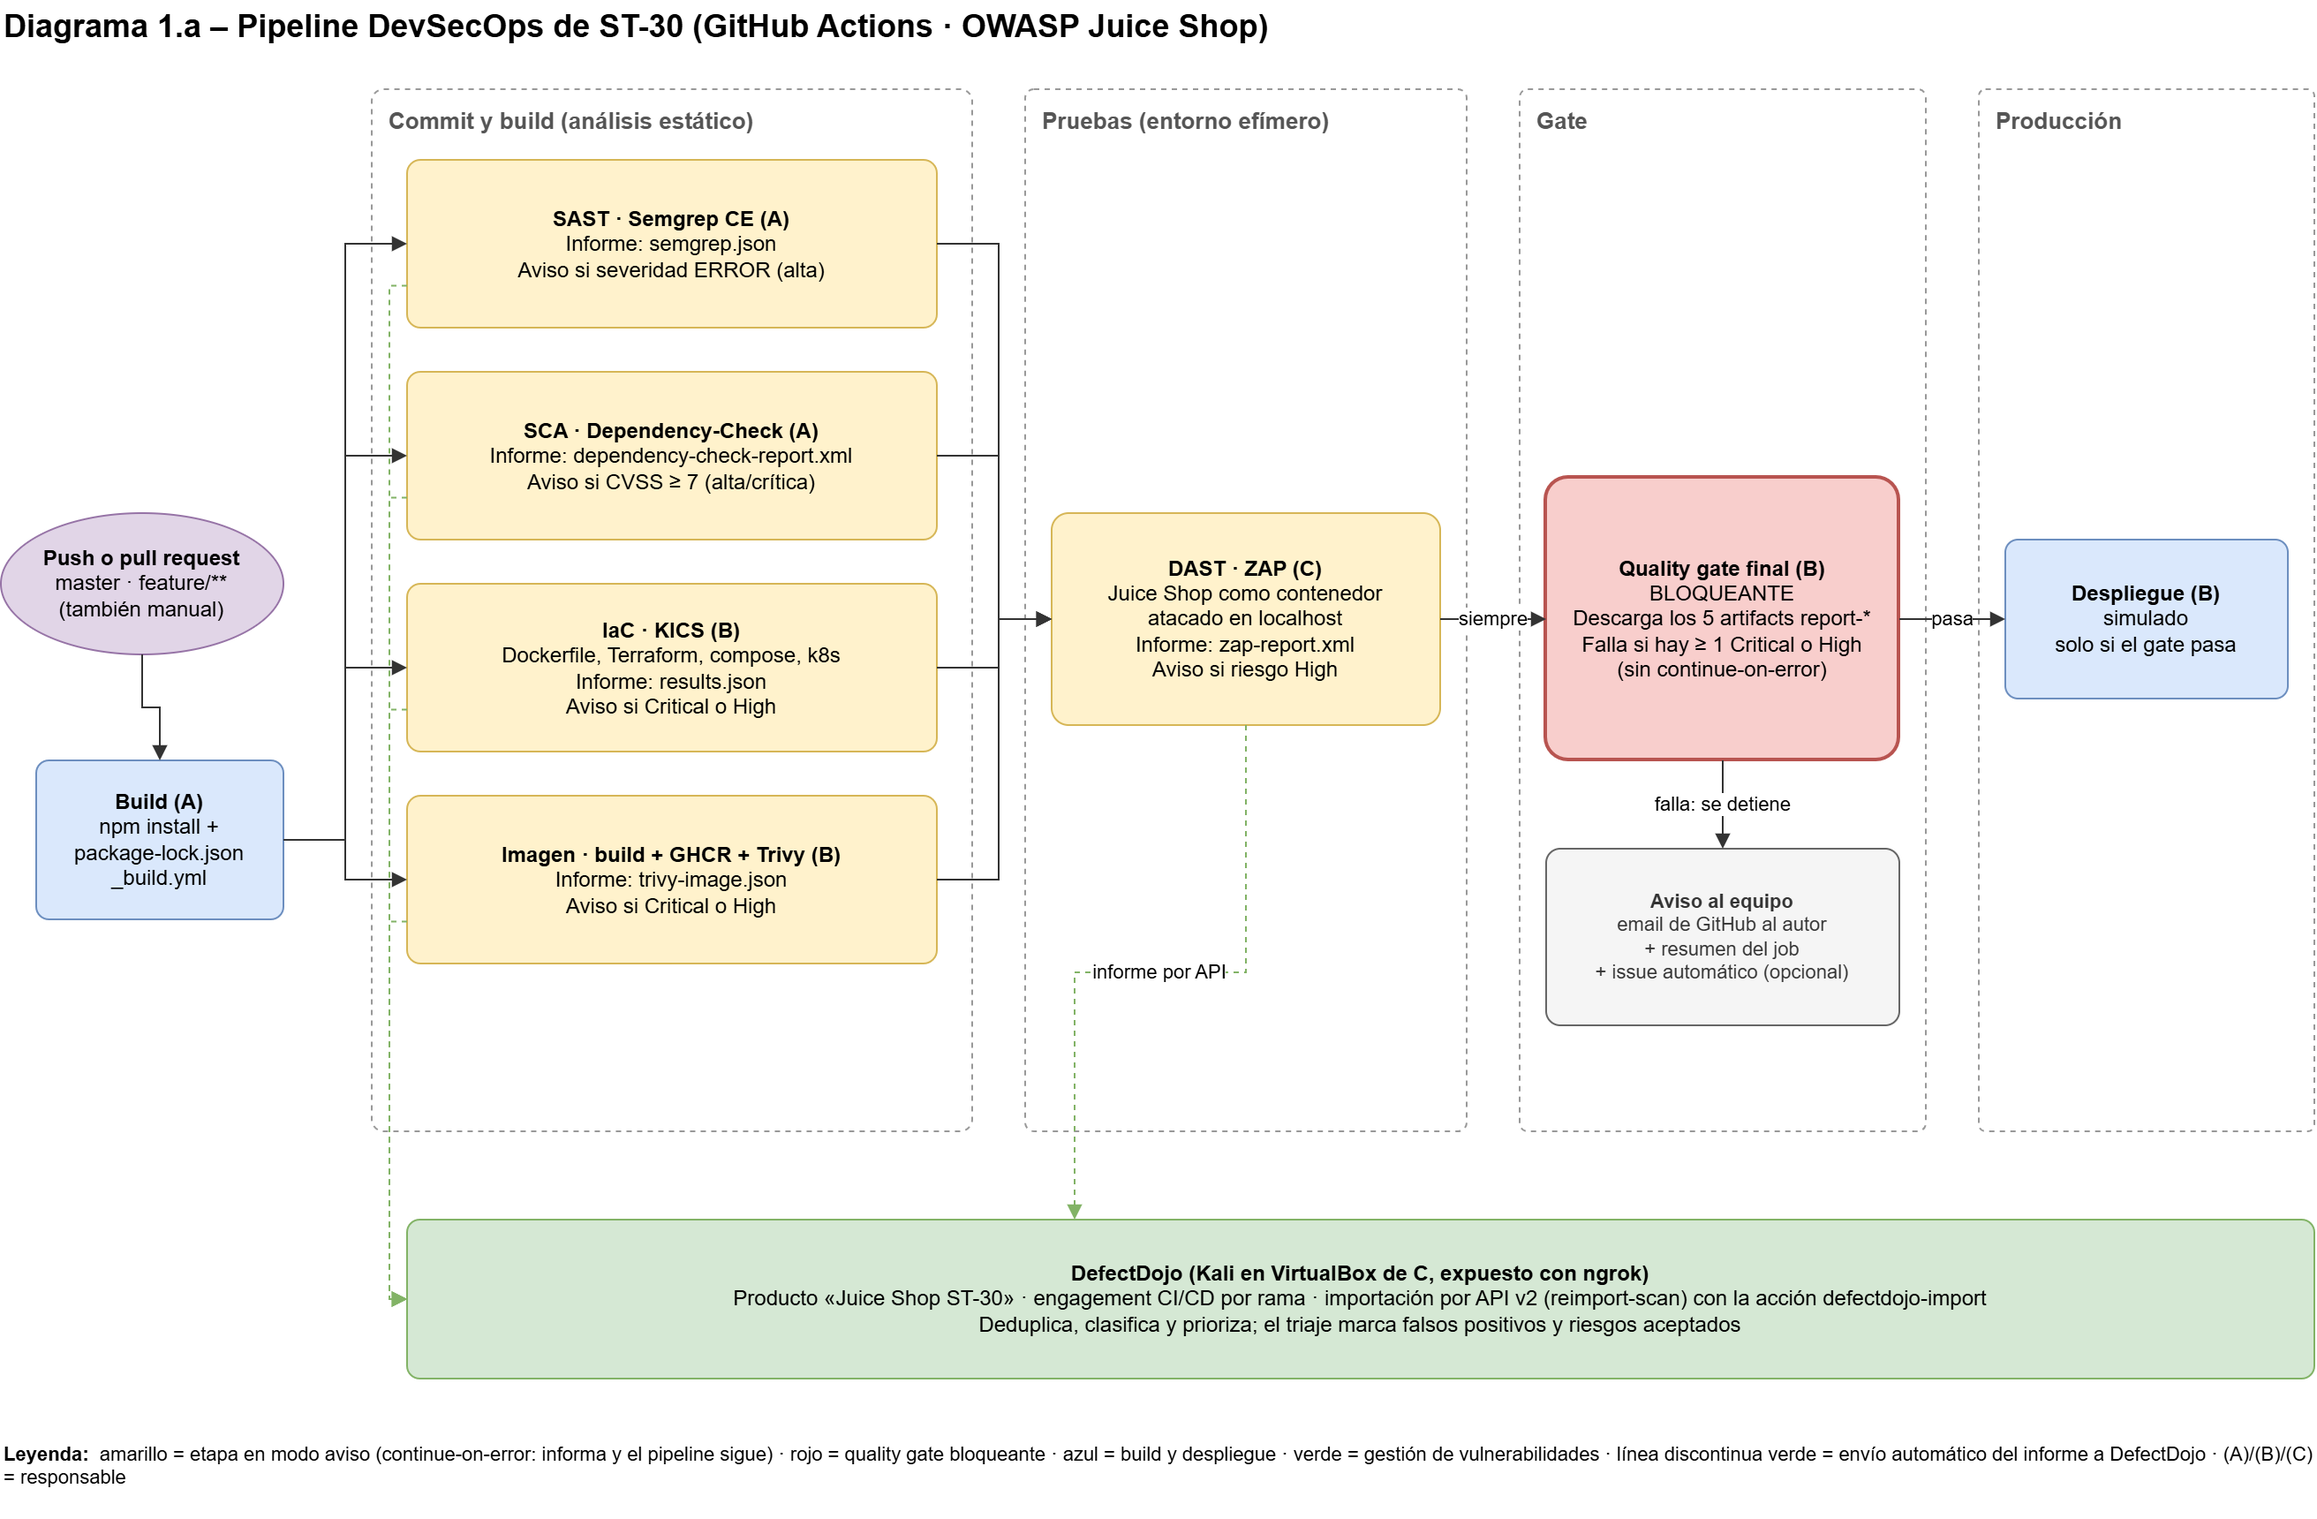
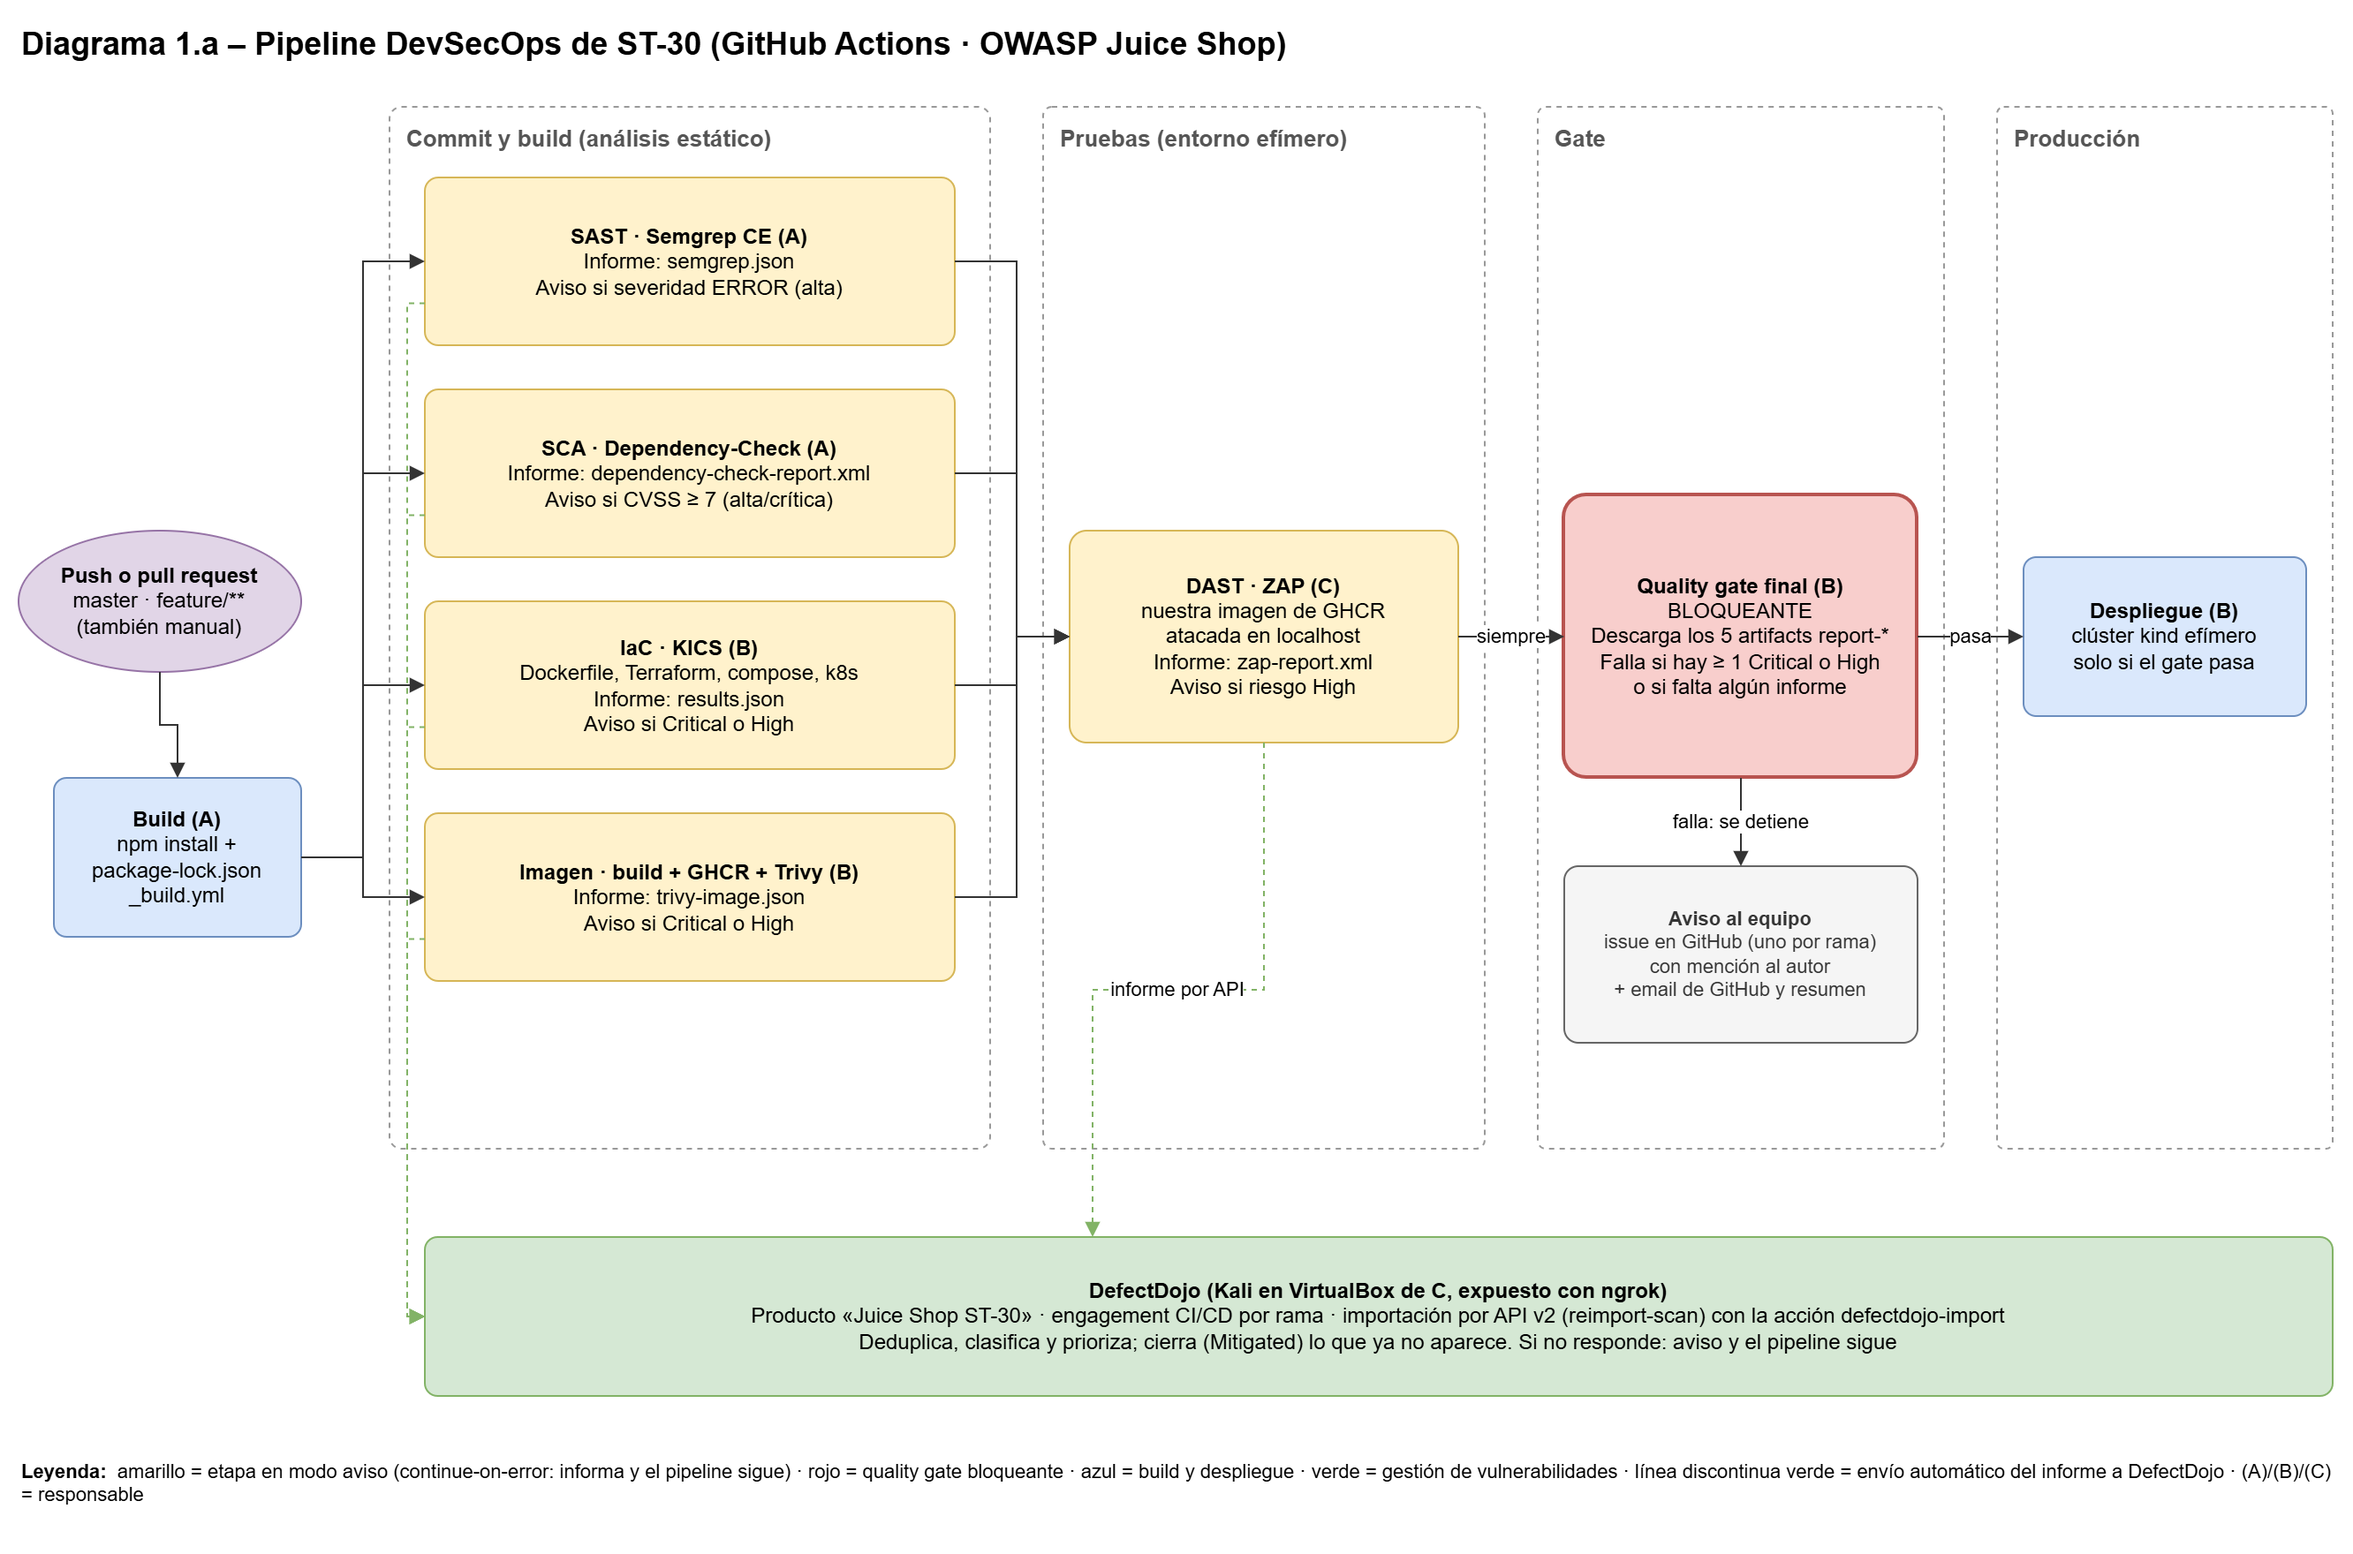
prep: DefectDojo en KICS/Trivy, close_old_findings, diagramas y notas para la sesión

diff --git a/evidencias/B/NOTAS.md b/evidencias/B/NOTAS.md
@@ -1,0 +1,74 @@
+# Notas técnicas – Persona B (IaC, imagen, quality gate final, despliegue y diagramas)
+
+## 1. Seguridad en IaC: KICS (`_iac-container.yml`, job `iac`)
+- **Qué analiza:** `Dockerfile`, `terraform/`, `infrastructure/` (Terraform y `docker-compose.yml`) y los manifiestos de `k8s/`.
+- **Por qué KICS:** un solo escáner cubre Dockerfile, Terraform, docker-compose y Kubernetes, y asigna severidad a cada hallazgo (necesaria para el umbral). Checkov sin cuenta de pago no asigna severidad; Trivy en modo `config` cubre menos formatos de una vez.
+- **Configuración:** imagen `checkmarx/kics` fijada por digest (`sha256:49ccc54b…`, v2.2.1). Umbral `--fail-on critical,high` (KICS sale con código 50 si el hallazgo más grave es High). **Modo aviso** con `continue-on-error` en el paso. Resumen por severidad en el job, aviso `::warning::` e informe `results.json` como artifact `report-kics`.
+- **Resultados:**
+  - Sin `k8s/`: 0 Critical, 10 High, 35 Medium, 12 Low. Los 10 High son 5 hallazgos duplicados porque `terraform/` e `infrastructure/terraform/` son idénticos.
+  - Más grave: **clave privada RSA escrita en `networking.tf`** (línea 171, recurso `aws_iam_server_certificate`). Verdadero positivo; Juice Shop la incluye a propósito (`iacLeakedKeyChallenge`).
+  - Resto de High: grupo de seguridad del balanceador abierto a `0.0.0.0/0` en los puertos 80 y 443. Esperable en un balanceador web público (443 = riesgo aceptado); el 80 debería redirigir a HTTPS.
+  - Con `k8s/` v1: 0 Critical, 11 High, 40 Medium, 21 Low (15 hallazgos nuevos en `deployment.yaml`, sección 4).
+
+## 2. Imagen de contenedor: build, GHCR y Trivy (`_iac-container.yml`, job `image-scan`)
+- **Qué hace:** construye la imagen con el Dockerfile de Juice Shop, la publica en GHCR como `ghcr.io/ssii-st30/juice-shop:<sha del commit>` usando `GITHUB_TOKEN` (sin secretos propios) y la analiza con Trivy. El DAST (C) y el despliegue usan esa misma imagen.
+- **Por qué Trivy:** cubre la capa de contenedores del escenario: paquetes del sistema base, dependencias empaquetadas y secretos dentro de la imagen. KICS revisa la receta; Trivy, el artefacto que realmente se despliega.
+- **Configuración:** imagen `aquasec/trivy:0.69.3`, sin usar `trivy-action` (sección 6). Informe JSON completo con todas las severidades (`trivy-image.json`, artifact `report-trivy`); el umbral Critical/High se aplica en un paso aparte en **modo aviso**.
+- **Resultados (16/11):** 7 Critical, 25 High, 70 Medium, 15 Low.
+  - El sistema base (Debian 13.7) no tiene ningún Critical ni High.
+  - Las 7 críticas están en dependencias de Node.js: `jsonwebtoken` 0.1.0/0.4.0 (CVE-2015-9235, se puede saltar la verificación del JWT), `crypto-js` 3.3.0 (2), `lodash` 2.4.2 (CVE-2019-10744, prototype pollution), `marsdb` 0.6.11 (inyección de comandos, **sin versión corregida**) y `tar` 6.2.1.
+  - Varias son intencionadas: `express-jwt` 0.1.3, `jsonwebtoken` 0.4.0 y `sanitize-html` 1.4.2 están excluidas de las actualizaciones en `.dependabot/config.yml` de Juice Shop.
+  - 3 de los High son **claves privadas dentro de la imagen**. La de `infrastructure/terraform/networking.tf` la detectan **KICS y Trivy**: llega a la imagen porque `.dockerignore` excluye `terraform/` pero no `infrastructure/`.
+
+## 3. Quality gate final bloqueante (`security/gate/gate.py` y `_security-gate.yml`)
+- **Qué hace:** descarga los 5 artifacts `report-*`, traduce la severidad de cada herramienta a una escala común y falla si hay **al menos un Critical o High** o si **falta algún informe obligatorio** (*fail-closed*). Es el **único paso bloqueante** del pipeline: sin `continue-on-error`. Si falla, `deploy` no se ejecuta.
+- **Traducción de severidades:** Semgrep `ERROR` → High; Dependency-Check `critical`/`high` (en minúsculas) → Critical/High; KICS y Trivy `CRITICAL`/`HIGH`; ZAP `riskcode 3` → High (ZAP no tiene Critical).
+- **Salida:** tabla por herramienta en el resumen del job, anotación `::error::` con el recuento y `gate-result.json` como artifact.
+- **Por qué un único gate al final:** la aplicación es vulnerable a propósito; un gate bloqueante en el build impediría llegar al DAST (lo advierte el enunciado).
+- **Resultados:** ejecución #36 (17/11): 12 Critical y 60 High (Semgrep 0/16, Dependency-Check 5/9, KICS 0/11, Trivy 7/24) y falta el informe de ZAP → el gate falla y `deploy` queda omitido. Evidencias B07–B09. Las cifras varían ligeramente entre ejecuciones porque las bases de datos de vulnerabilidades se actualizan cada día.
+
+## 4. Kubernetes (`k8s/`)
+- **v1:** `Namespace`, `Deployment` (2 réplicas, límites de CPU y memoria, *readiness* y *liveness probes*) y `Service` ClusterIP. La imagen aparece como `IMAGE_TAG`, que el despliegue sustituye por la del commit. Se escribió como un manifiesto habitual, sin endurecer y sin introducir fallos a propósito.
+- **Hallazgos de KICS en la v1 (15):** 1 High (*Privilege Escalation Allowed*), 5 Medium (ejecución como root y UID bajo, *capabilities* NET_RAW sin eliminar, sin perfil seccomp, token de service account montado) y 9 Low (sin PodDisruptionBudget, LimitRange ni ResourceQuota, sin AppArmor, sin `securityContext`, sistema de ficheros raíz no de solo lectura, imagen sin digest / etiqueta no válida).
+- **v2 endurecida (preparada para la sesión DefectDojo):** `allowPrivilegeEscalation: false`, `runAsNonRoot`/`runAsUser: 65532`, `capabilities: drop ALL`, `seccompProfile: RuntimeDefault`, AppArmor, `automountServiceAccountToken: false`, PodDisruptionBudget, LimitRange y ResourceQuota.
+  - **Riesgo aceptado:** `readOnlyRootFilesystem: false`, porque Juice Shop escribe en tiempo de ejecución su base de datos SQLite, los logs y los ficheros subidos.
+  - **Falso positivo en contexto:** *Image Without Digest* / *Invalid Image Tag*, porque KICS ve el marcador `IMAGE_TAG`, que el despliegue sustituye por la imagen real.
+
+## 5. Despliegue y aviso al equipo (`_deploy.yml` y `_security-gate.yml`)
+- **Despliegue (solo si el gate pasa):** sustituye `IMAGE_TAG` por la imagen del commit, la descarga de GHCR, crea un clúster Kubernetes efímero con *kind* dentro del runner, aplica los manifiestos, espera a que las réplicas estén listas y hace una prueba de humo contra la aplicación. No hay producción real: el clúster desaparece al terminar el job. Admite un ensayo manual (*workflow_dispatch*).
+- **Aviso si el gate falla:** abre un issue en GitHub (uno por rama; si ya existe, añade un comentario) con mención al autor del commit, enlace a la ejecución, resultado del gate y siguiente paso (triaje en DefectDojo). Se suma al correo que GitHub envía al autor y al resumen del job. Evidencias B10–B11.
+
+## 6. Seguridad de la cadena de suministro de las propias herramientas
+- En marzo de 2026 se comprometió Trivy: binario v0.69.4 e imágenes 0.69.5 y 0.69.6 maliciosas, y 76 de las 77 etiquetas de `trivy-action` reescritas para robar secretos del pipeline. Aqua Security publicó como seguras las versiones v0.69.2 y v0.69.3.
+- En abril de 2026 se comprometieron `kics-github-action` y varias etiquetas de la imagen `checkmarx/kics`, entre ellas `latest`.
+- **Medidas:** Trivy por imagen Docker fijada a 0.69.3 y no por la acción; KICS fijado por digest; un paso que registra en el log el digest exacto de cada herramienta en cada ejecución (evidencia B05). El equipo extendió la misma política a Semgrep (1.185.0), Dependency-Check (13.0.0) y la acción de ZAP (por SHA).
+
+## 7. Diagramas del objetivo 1 (`docs/diagramas/`)
+- **1.a:** etapas en orden, herramienta, informe, umbral y modo de cada etapa, envío a DefectDojo y gate bloqueante con aviso al equipo.
+- **1.b:** decisiones (¿supera el umbral?, ¿etapa bloqueante?, ¿falso positivo?, ¿se corrige ahora?), qué hace el pipeline en cada caso, a quién se avisa y cómo se registra y cierra el hallazgo en DefectDojo.
+- **Cambios respecto a la v1 (16/11) y motivo:**
+  - El DAST ataca la imagen propia de GHCR en lugar de una imagen genérica, para probar el mismo artefacto que se analiza y se despliega.
+  - El gate también falla si falta un informe (*fail-closed*).
+  - El despliegue se concreta en un clúster *kind* efímero.
+  - El aviso al equipo se implementa con un issue en GitHub (en la v1 figuraba como opcional).
+  - DefectDojo cierra como *Mitigated* lo que deja de aparecer (`close_old_findings`) y, si no responde, solo avisa.
+
+## 8. Problemas encontrados y soluciones
+1. **Pull request abierto contra el repositorio original de Juice Shop** (cerrado como spam por sus responsables): en un fork, GitHub propone por defecto el repositorio original. Se repitió contra el nuestro y se fijó la norma de comprobar siempre el *base repository*.
+2. **`git` dejó de funcionar:** se usaba el Git incluido en GitHub Desktop, que se actualizó y borró su carpeta anterior del PATH. Se añadió la nueva ruta al PATH.
+3. **Commit hecho en `master` en lugar de en la rama:** se movió a su rama (`git branch -f` y `git reset --hard origin/master`). La protección de `master` impedía subirlo directamente.
+4. **Sangría incorrecta del job `dast` en `devsecops.yml`:** el job se fusionaba con `iac-container` y GitHub rechazaba el workflow. Se corrigió en el pull request #13.
+5. **Bloque JSON mal cerrado en el issue de aviso:** `gate-result.json` no terminaba con salto de línea. Se corrigió en `gate.py`.
+6. **DefectDojo apagado durante una ejecución:** la acción avisó (*"DefectDojo no responde"*) y el pipeline continuó, como estaba diseñado (evidencia B12).
+
+## 9. Evidencias del bloque B (`evidencias/B/`)
+| Fichero | Qué muestra |
+|---|---|
+| B01, B02 | KICS en modo aviso (exit code 50) y su resumen |
+| B03, B04 | Trivy: resumen y anotaciones de KICS y Trivy en modo aviso |
+| B05 | Digest exacto de KICS registrado en el log |
+| B06 | KICS con los manifiestos de Kubernetes v1 |
+| B07, B08, B09 | Ejecución detenida por el quality gate: grafo, tabla y anotaciones |
+| B10, B11 | Issue de aviso creado por el pipeline |
+| B12 | Pipeline completo (con DAST) y aviso de DefectDojo no disponible |
+| `report-kics.zip`, `report-kics-k8s.zip`, `report-trivy.zip`, `gate-result.zip` | Informes generados por las herramientas |

diff --git a/evidencias/A/NOTAS.md b/evidencias/A/NOTAS.md
@@ -1,4 +1,4 @@
-# Notas Técnicas – Persona A (Base del pipeline, SAST y SCA)
+# Notas Técnicas – Persona A (Base del pipeline, SAST y SCA)
 
 ## 1. Arquitectura base del pipeline y Build (`devsecops.yml` y `_build.yml`)
 - **Plataforma CI/CD:** GitHub Actions sobre repositorio público (`ssii-st30/PAI4-ST30-juice-shop`), aprovechando runners gratuitos sin consumo de minutos, gestión segura de secretos (`NVD_API_KEY`) y workflows reutilizables (`workflow_call`) para aislar el trabajo de cada miembro.
@@ -23,8 +23,8 @@
 - **Configuración, modo aviso y resultados:** Imagen oficial fijada en `owasp/dependency-check:13.0.0` sobre `package.json` y `package-lock.json` con `--failOnCVSS 7` (umbral High/Critical) y caché persistente (`actions/cache@v4`) de la base NVD. Al superar el umbral devuelve `exit code 15`, capturado en modo aviso (`continue-on-error: true` en el paso). Exporta `dependency-check-report.xml` (artifact `report-dependency-check`).
   - Total vulnerabilidades detectadas: **35** (**5** Critical, **10** High — Total Critical/High CVSS >= 7: **15**).
   - Ejemplos representativos:
-- **GHSA-q69g-4hcv-6jg4** — Severidad: HIGH (CVSS: )
-- **GHSA-v75r-vx73-82pj** — Severidad: HIGH (CVSS: )
+- **GHSA-jf85-cpcp-j695** en `lodash` 2.4.2 — Severidad: CRITICAL (CVSS 9.1)
+- **GHSA-xwcq-pm8m-c4vf** en `crypto-js` 3.3.0 — Severidad: CRITICAL (CVSS 9.1)
 - **Gestión de falsos positivos:** Fichero XML `security/dependency-check/suppressions.xml` pasado mediante `--suppression`.
 
 ## 4. Problemas encontrados y soluciones aplicadas
